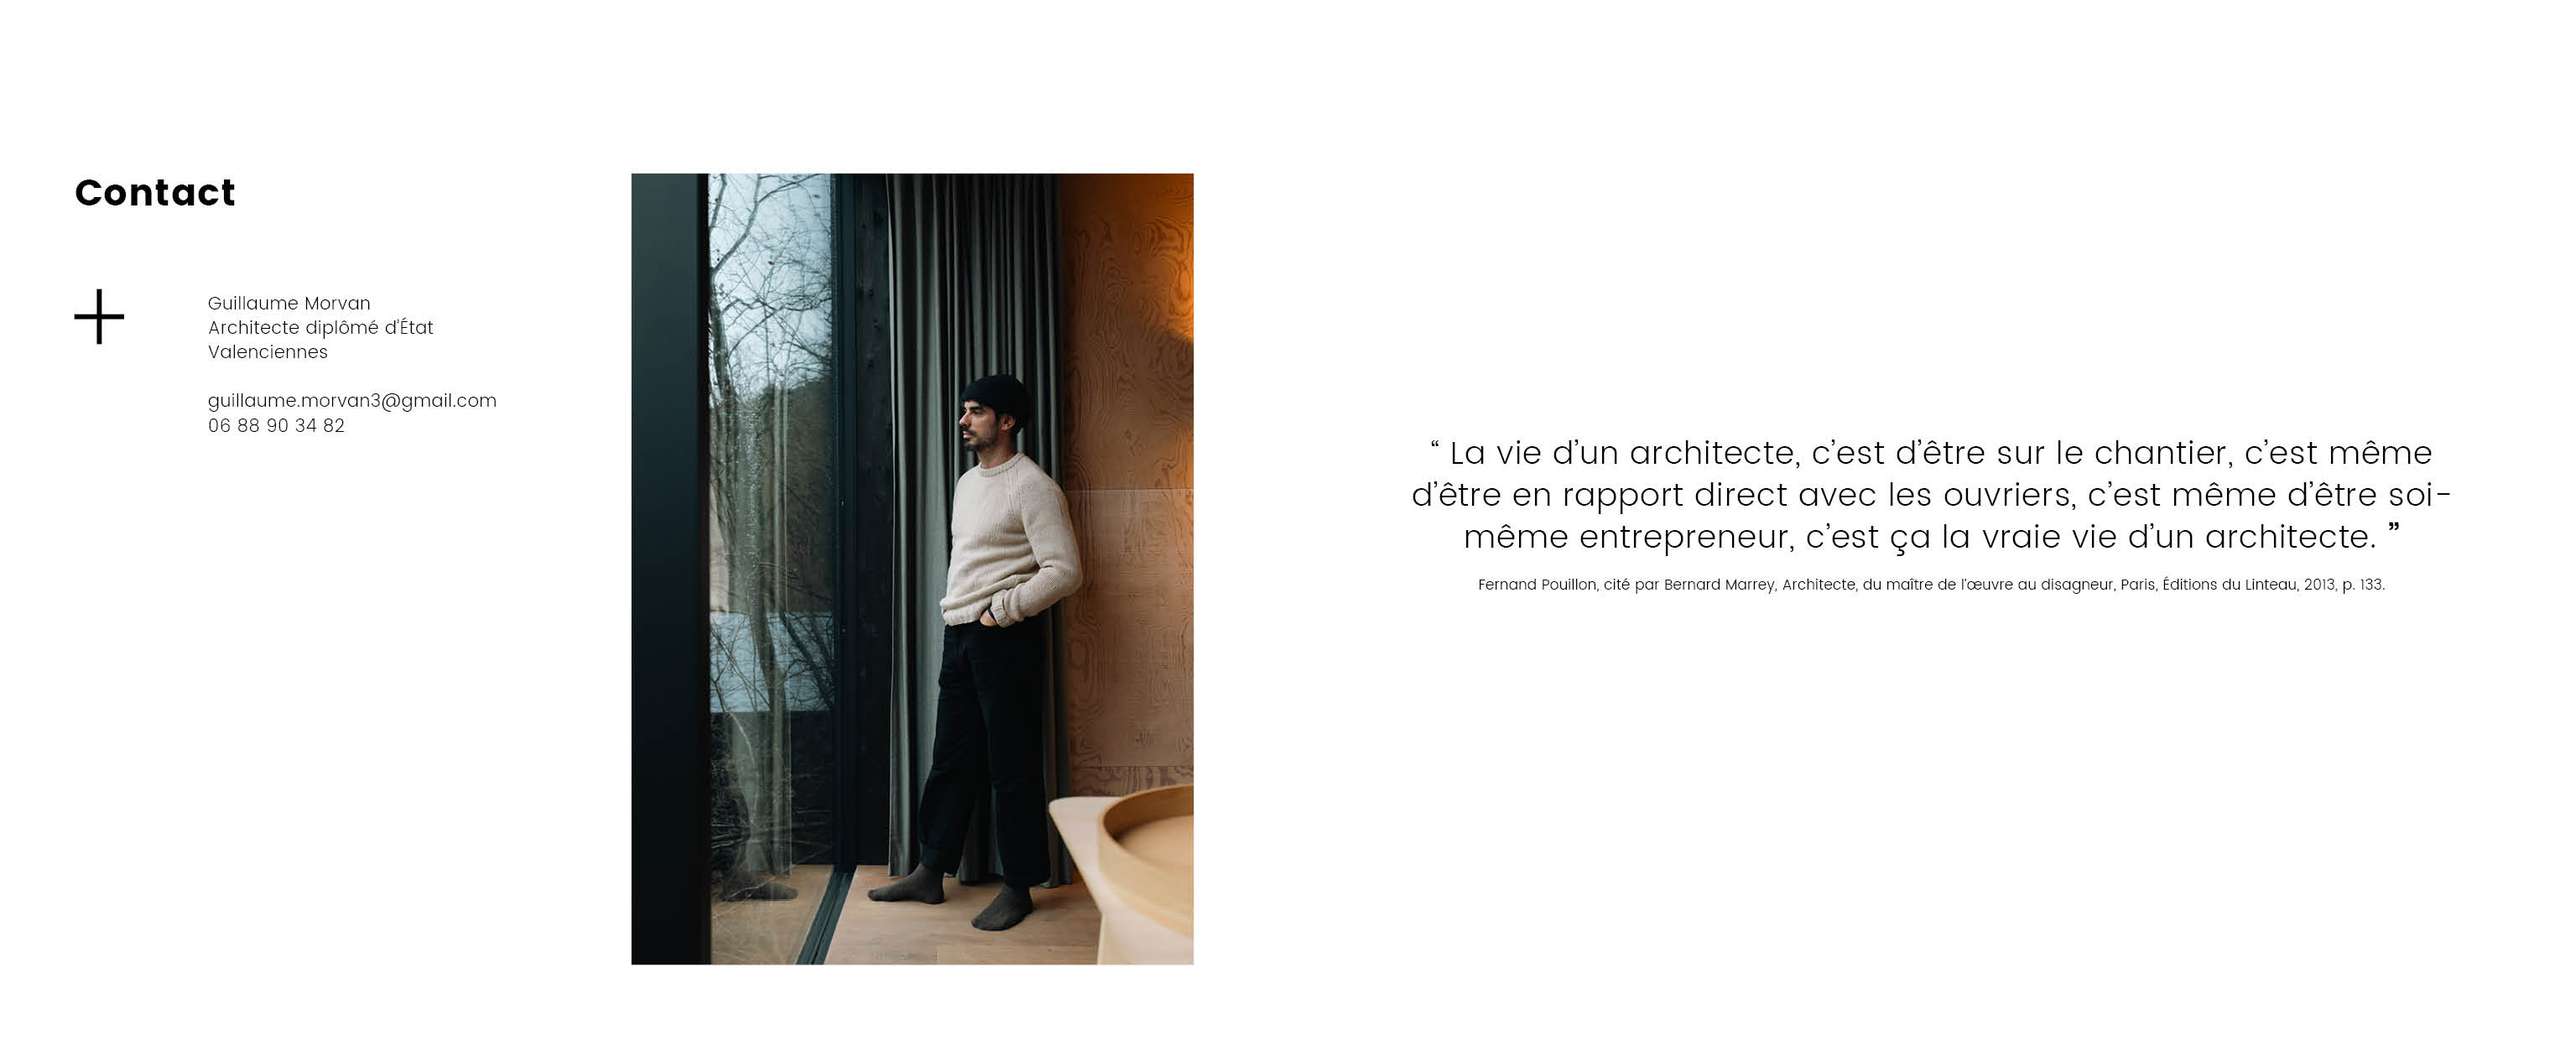
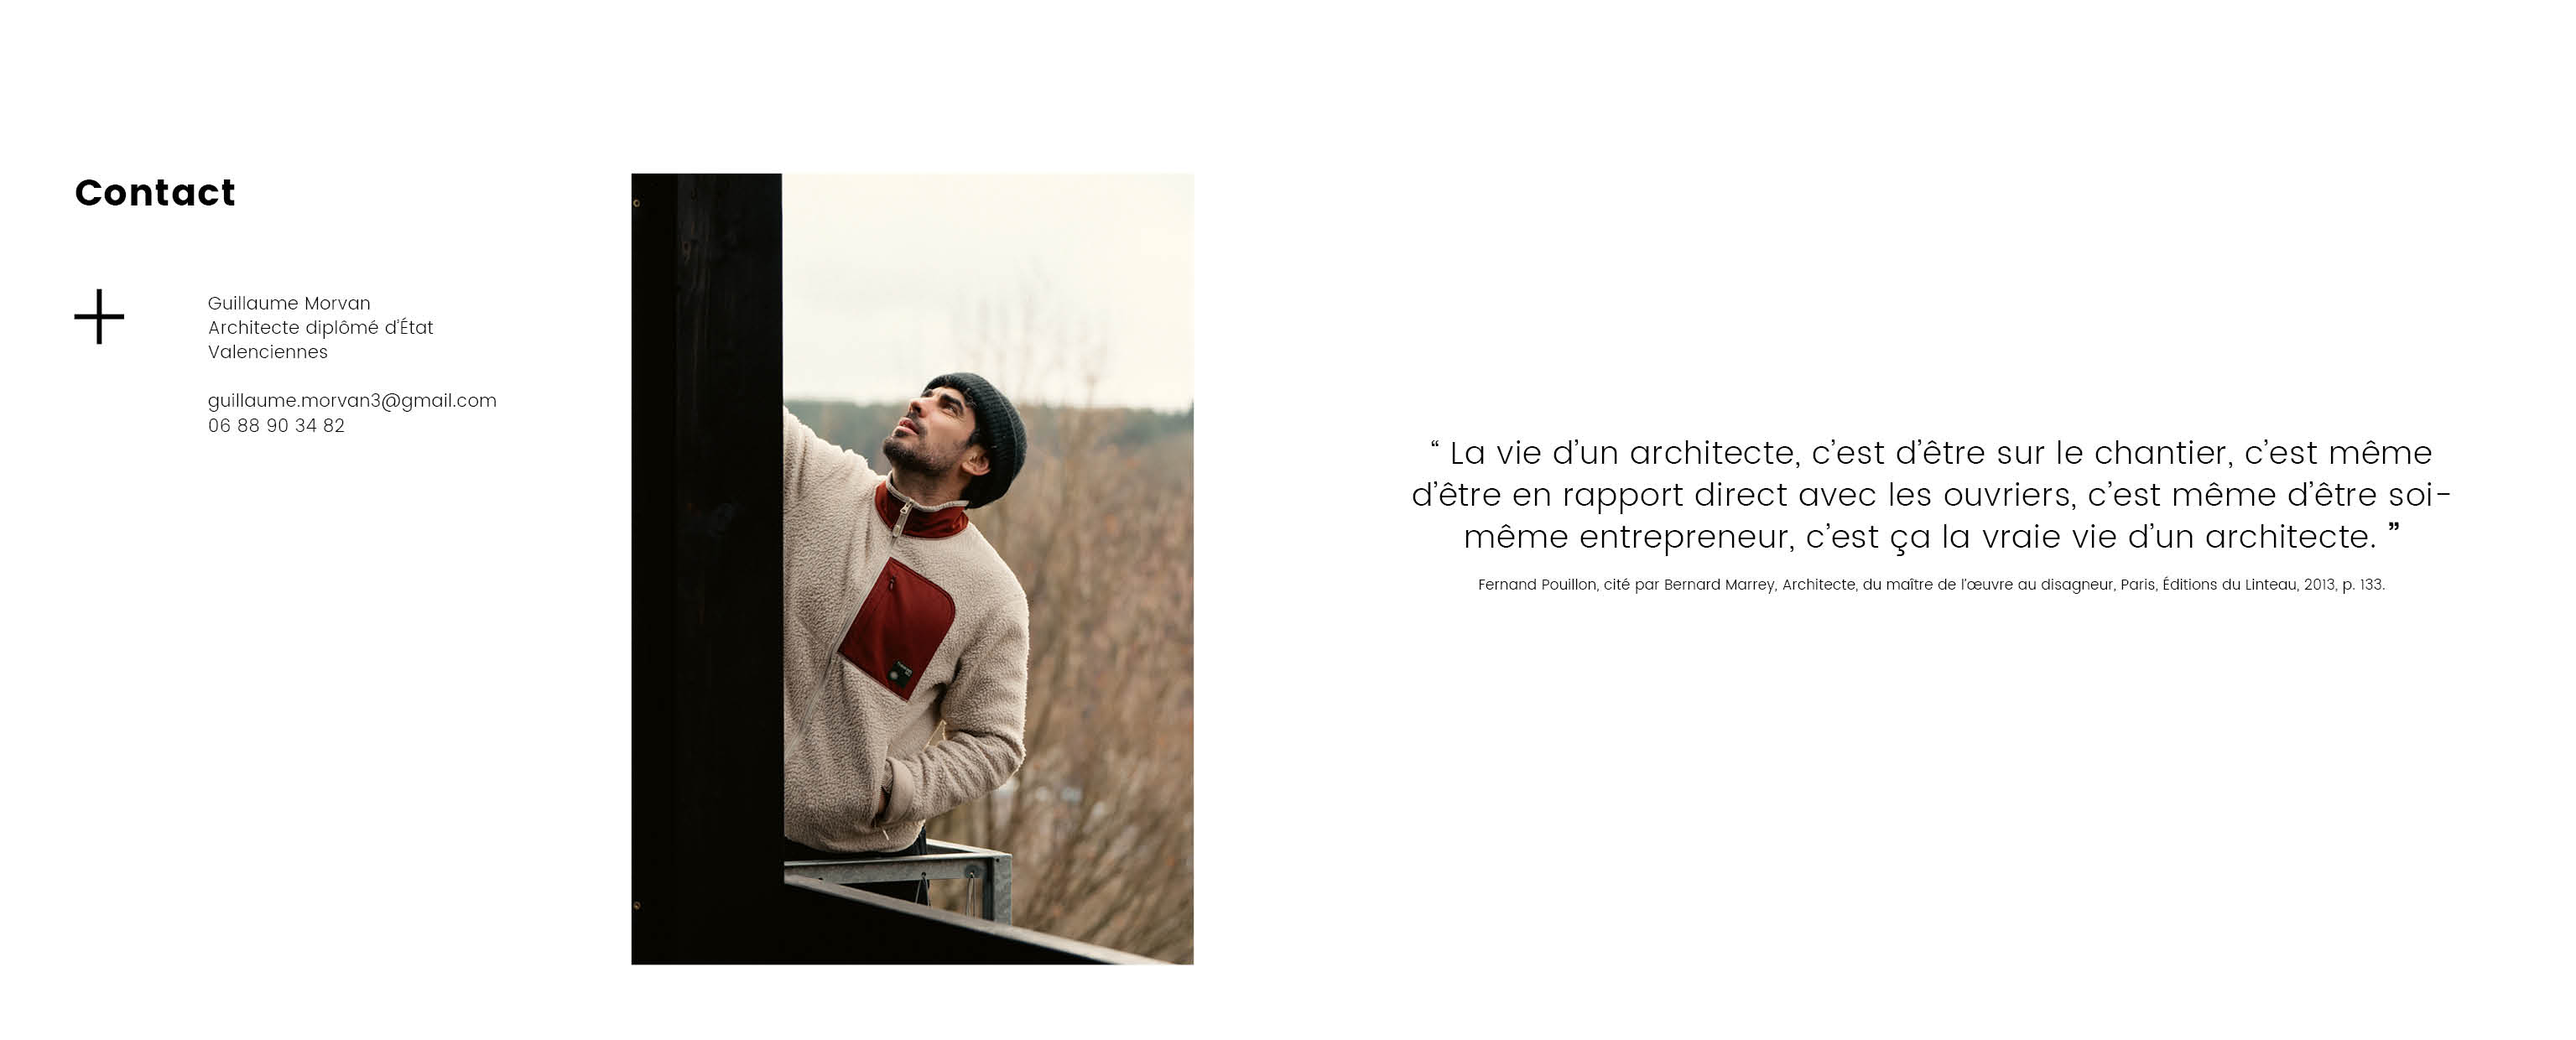
Update contact photos

Changed region(s): [[0.2475, 0.1532, 0.464, 0.95]]

diff --git a/desktop.html b/desktop.html
@@ -398,7 +398,7 @@
 
     const VIGNETTE_FOLDER = "Vignettes/";
     const ABOUT_FOLDER = "apropos/";
-    const ABOUT_ASSET_VERSION = "2026-07-21-2";
+    const ABOUT_ASSET_VERSION = "2026-07-23-1";
     const ABOUT_TOTAL = 4;
     const ABOUT_ALTS = [
       "Approche architecturale et structure intérieure en bois",

diff --git a/mobile.html b/mobile.html
@@ -1156,7 +1156,7 @@
 
     const VIGNETTE_FOLDER = "Vignettes/";
     const ABOUT_FOLDER = "parcours-mobile/";
-    const ABOUT_ASSET_VERSION = "2026-07-21-2";
+    const ABOUT_ASSET_VERSION = "2026-07-23-1";
     const CONTACT_FOLDER = "contact-mobile/";
     const CONTACT_PAGE = 4;
     const ABOUT_TOP_OFFSET = 64;
